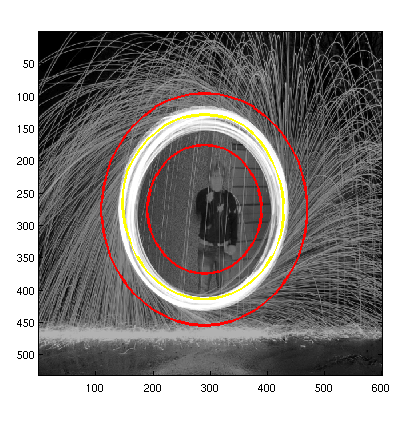
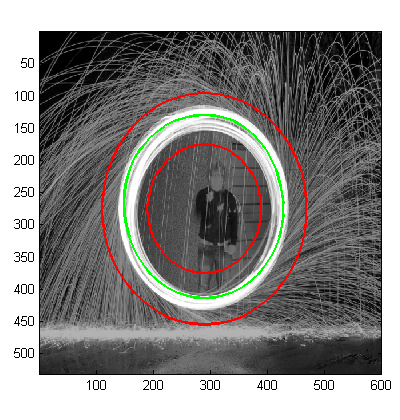
Fixed Closed Contours

diff --git a/ClosedMain.m b/ClosedMain.m
@@ -4,7 +4,7 @@
 tic
 
 % Read in and display image
-im = imread('fire.png');
+im = imread('heart.png');
 im = double(im);
 imax = max(max(im));
 imin = min(min(im));
@@ -20,8 +20,8 @@ axis square
 % %%% Invert Image %%%
 im =  1 - im;
 
-Contour1 = load('circle1.ctr');
-Contour2 = load('circle2.ctr');
+Contour1 = load('circle3.ctr');
+Contour2 = load('circle4.ctr');
 
 hold on % Plot to same figure...
 plot(Contour1(:,1), Contour1(:,2), 'r', 'LineWidth', 2)
@@ -119,6 +119,7 @@ for i =  contourLength : -1 : halfContourLength +1
     
     temp = currentPosition;    
     currentPosition = Position(currentPosition, i, previousPosition);
+    oldPreviousPosition = previousPosition;
     previousPosition = temp;
 end
  
@@ -160,10 +161,10 @@ end
 Position = zeros(divisions, contourLength, divisions);
 Energy = zeros(divisions, contourLength, divisions);
 
-Position(:,2,:) = currentPosition;
+Position(:,2,:) = previousPosition;
 Energy(:,2,:) = Inf;
 
-Energy(currentPosition, 2, :) = 0;
+Energy(oldPreviousPosition, 2, :) = 0;
 
 % SECOND DPA LOOP %
 for col = 3 : contourLength
@@ -193,7 +194,7 @@ for col = 3 : contourLength
     end
 end
 
-startPosition = currentPosition;
+startPosition = previousPosition;
 
  % Backtrack
 finalContour = zeros(contourLength, 2);
@@ -206,11 +207,13 @@ for i =  contourLength : -1 : 1
     previousPosition = temp;
 end
 
+%Join ends
 finalContour(contourLength + 1, 1) = vertices(startPosition, 1, 1);
 finalContour(contourLength + 1, 2) = vertices(startPosition, 1, 2);
 
 plot(finalContour(:,1), finalContour(:,2), 'g-', 'LineWidth', 2)
 
-
+%plot(finalContour(1,1), finalContour(1,2), 'b-+', 'LineWidth', 2)
+%plot(finalContour(contourLength,1), finalContour(contourLength,2), 'y-+', 'LineWidth', 2)
 
 toc % Stop Timer
